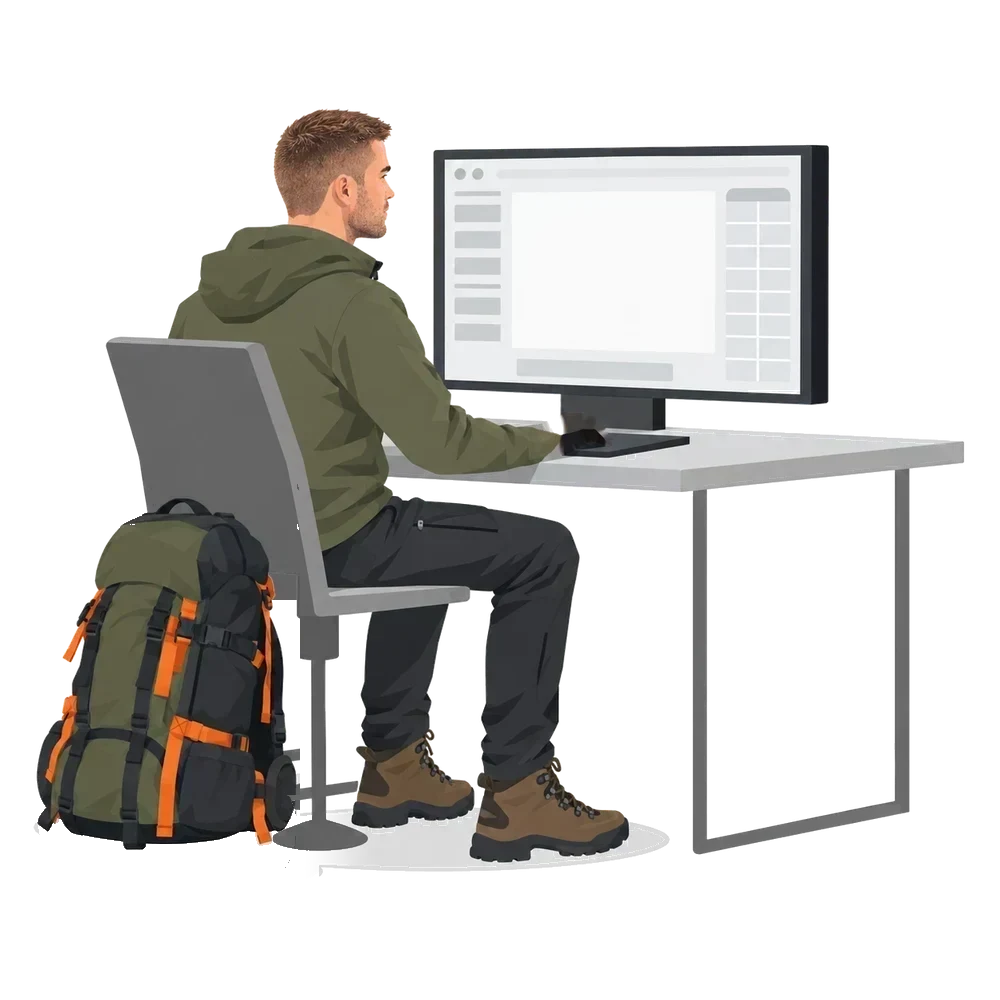
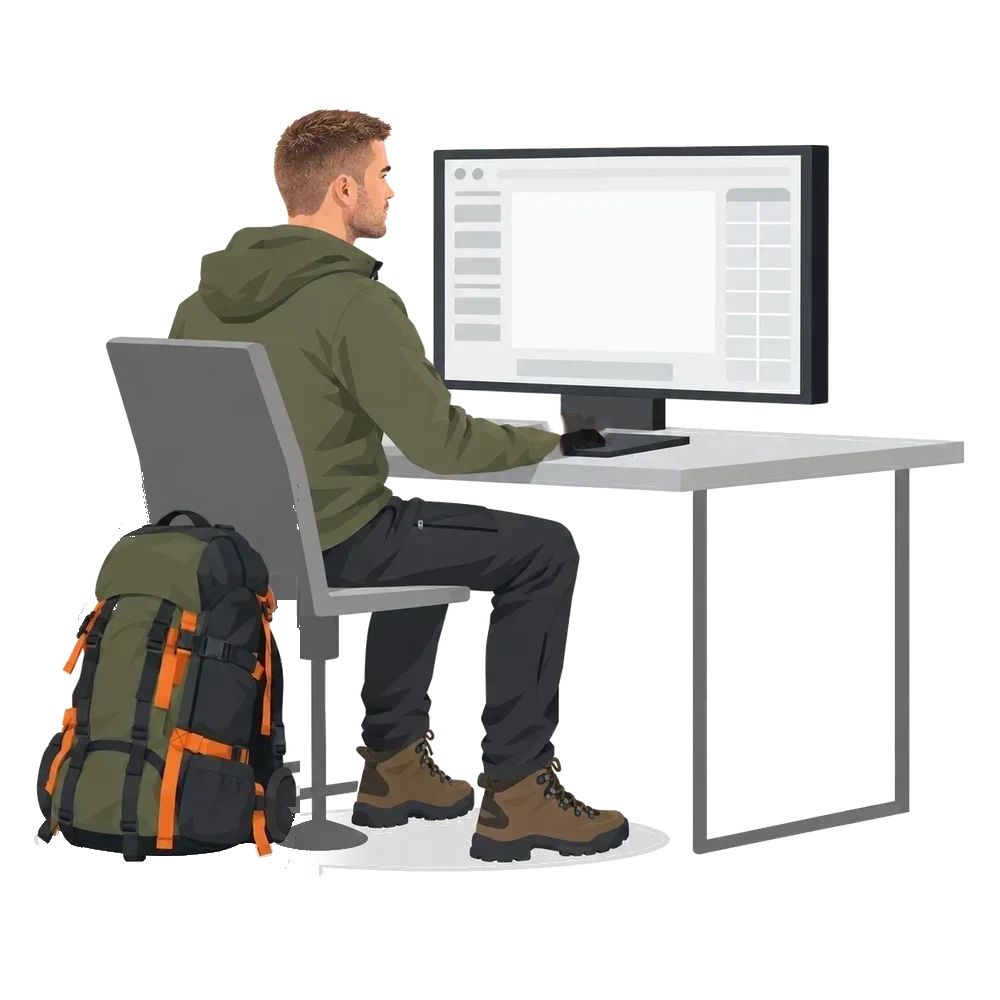
Buscador: mochila un poco más abajo

Changed region(s): [[0.031, 0.496, 0.31, 0.868]]

diff --git a/index.html b/index.html
@@ -228,7 +228,7 @@
 </div>
         <span class="dibujos__name" data-dib-name></span>
         <div class="esc__view"><div class="esc__cam" data-cam>
-          <img src="assets/img/escapada-escritorio.webp?v=5" alt="Cheno en su escritorio planificando una escapada" width="1000" height="1000" />
+          <img src="assets/img/escapada-escritorio.webp?v=6" alt="Cheno en su escritorio planificando una escapada" width="1000" height="1000" />
           <img class="esc__mano" src="assets/img/escapada-mano.webp" alt="" aria-hidden="true" width="200" height="136" data-mano />
           <div class="esc__screen" data-screen><div class="esc__glass" data-glass><div data-map></div></div></div>
         </div></div>
